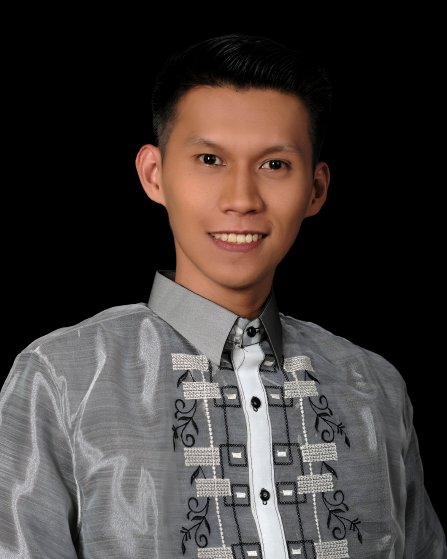
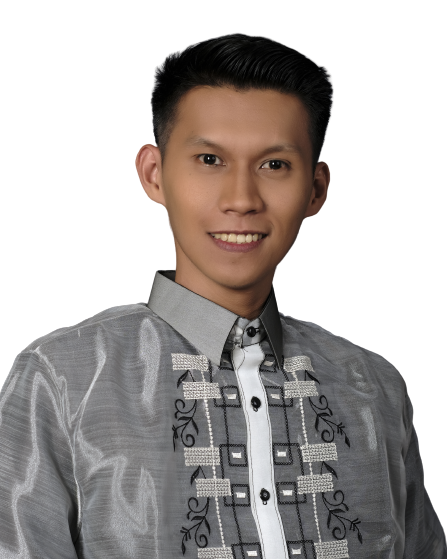
Fix image path for GitHub Pages

diff --git a/components/Hero.tsx b/components/Hero.tsx
@@ -42,7 +42,7 @@ export default function Hero() {
             <div className="absolute -bottom-3 -right-3 w-full h-full border border-accent/50" />
             <div className="relative w-72 h-80 overflow-hidden bg-paper">
               <Image
-                src="/jonathan.png"
+                src="/portfolio/jonathan.png"
                 alt="Jonathan Cruz Jara"
                 fill
                 className="object-cover object-top mix-blend-luminosity hover:mix-blend-normal transition-all duration-500"
